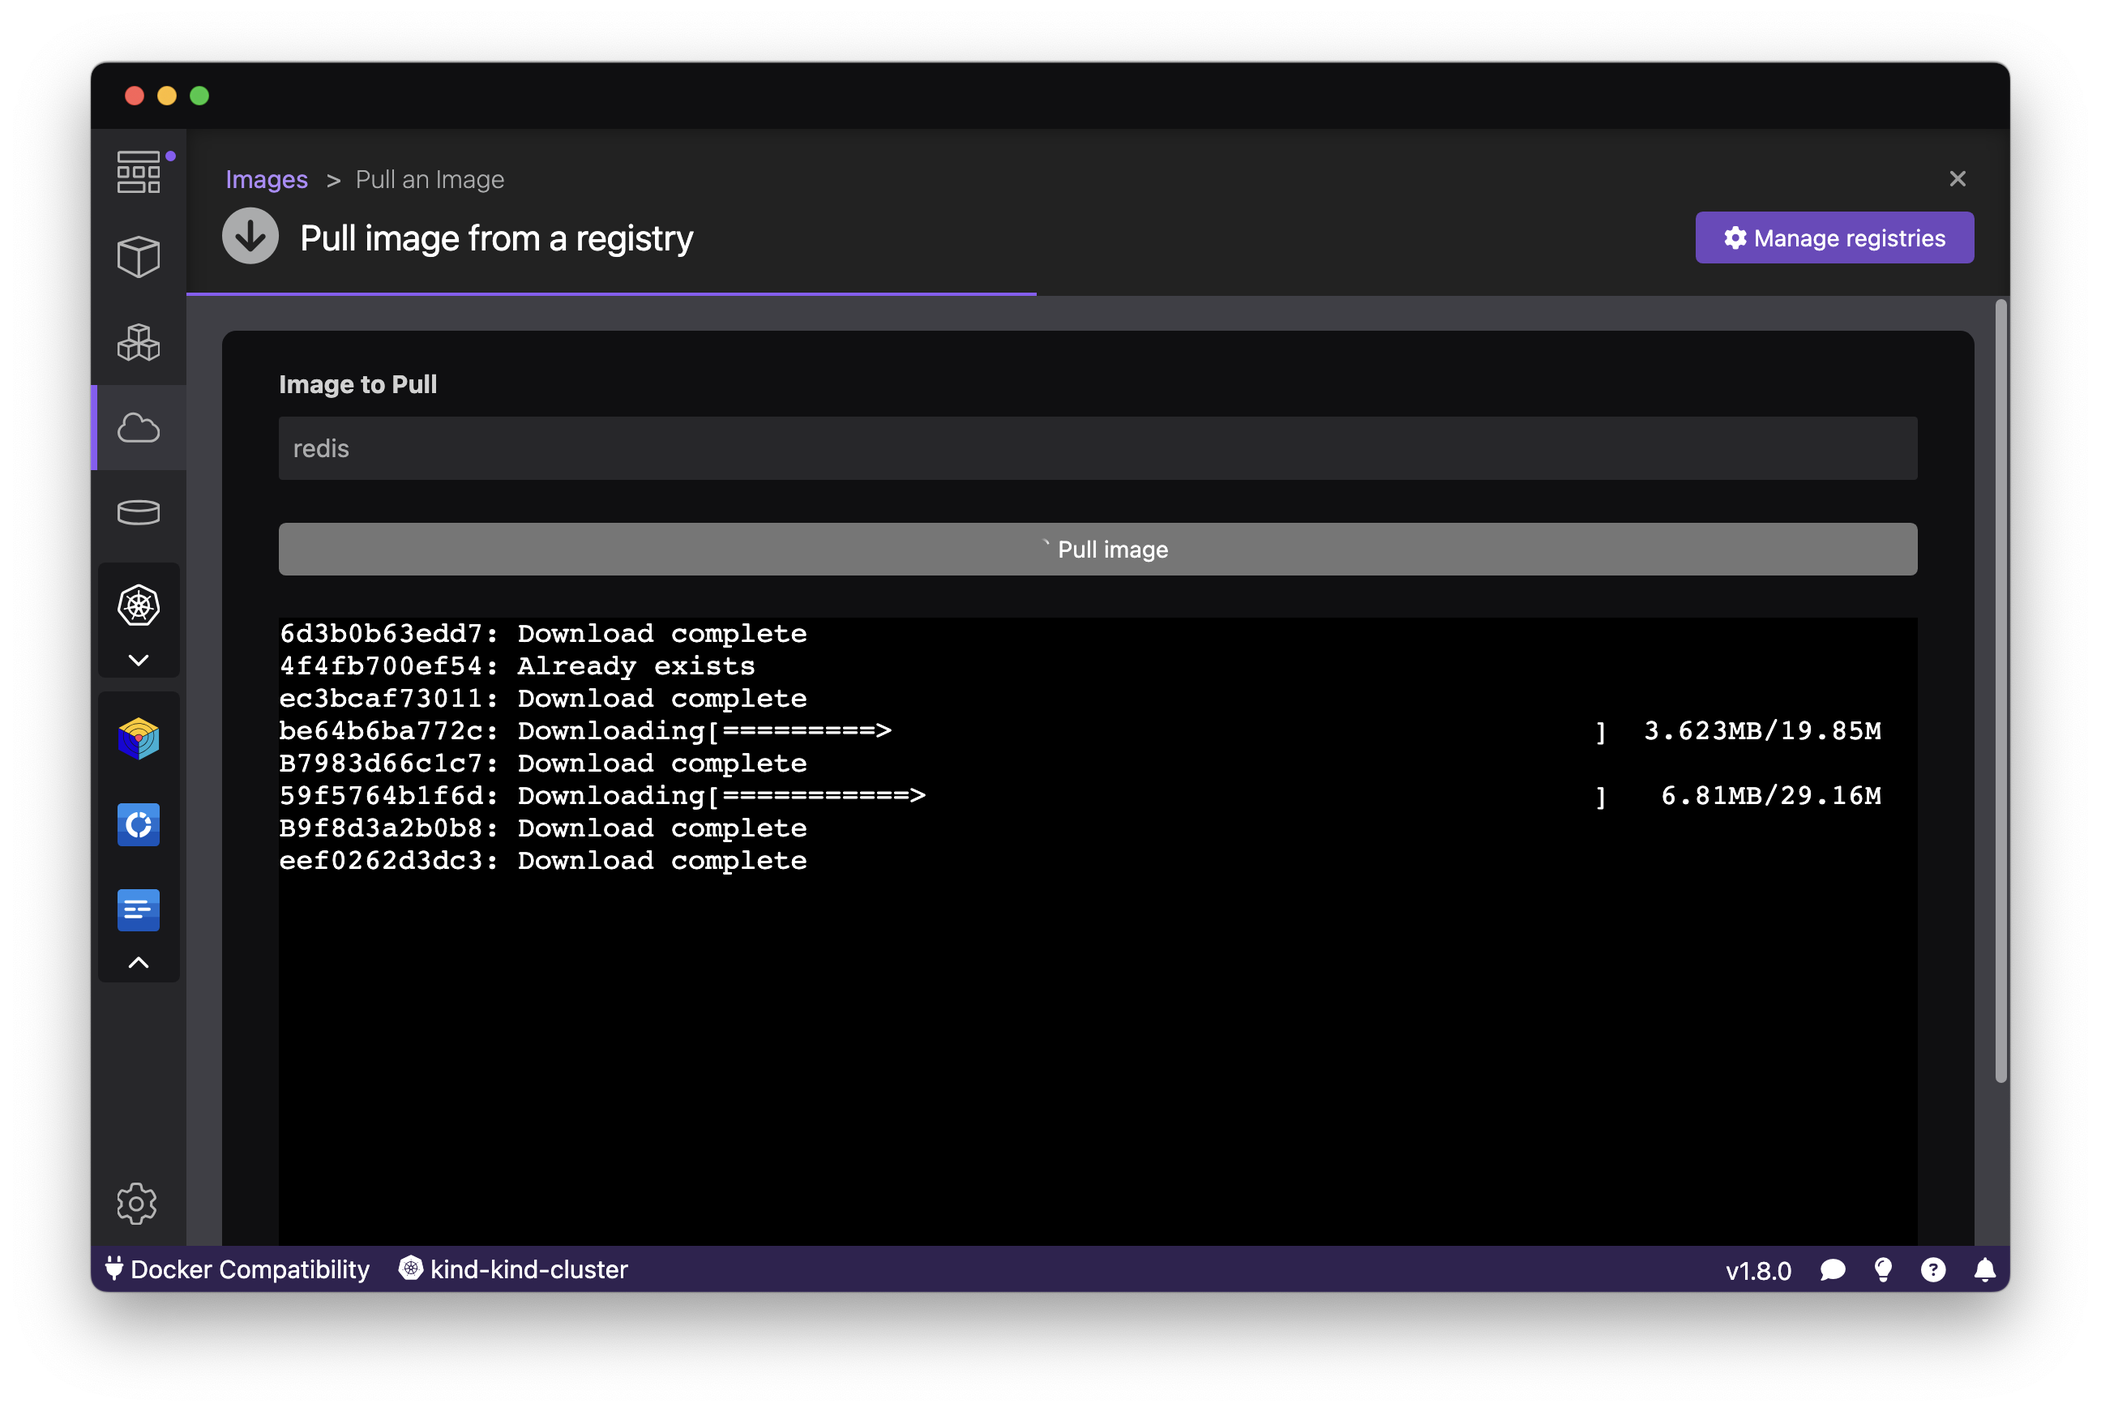
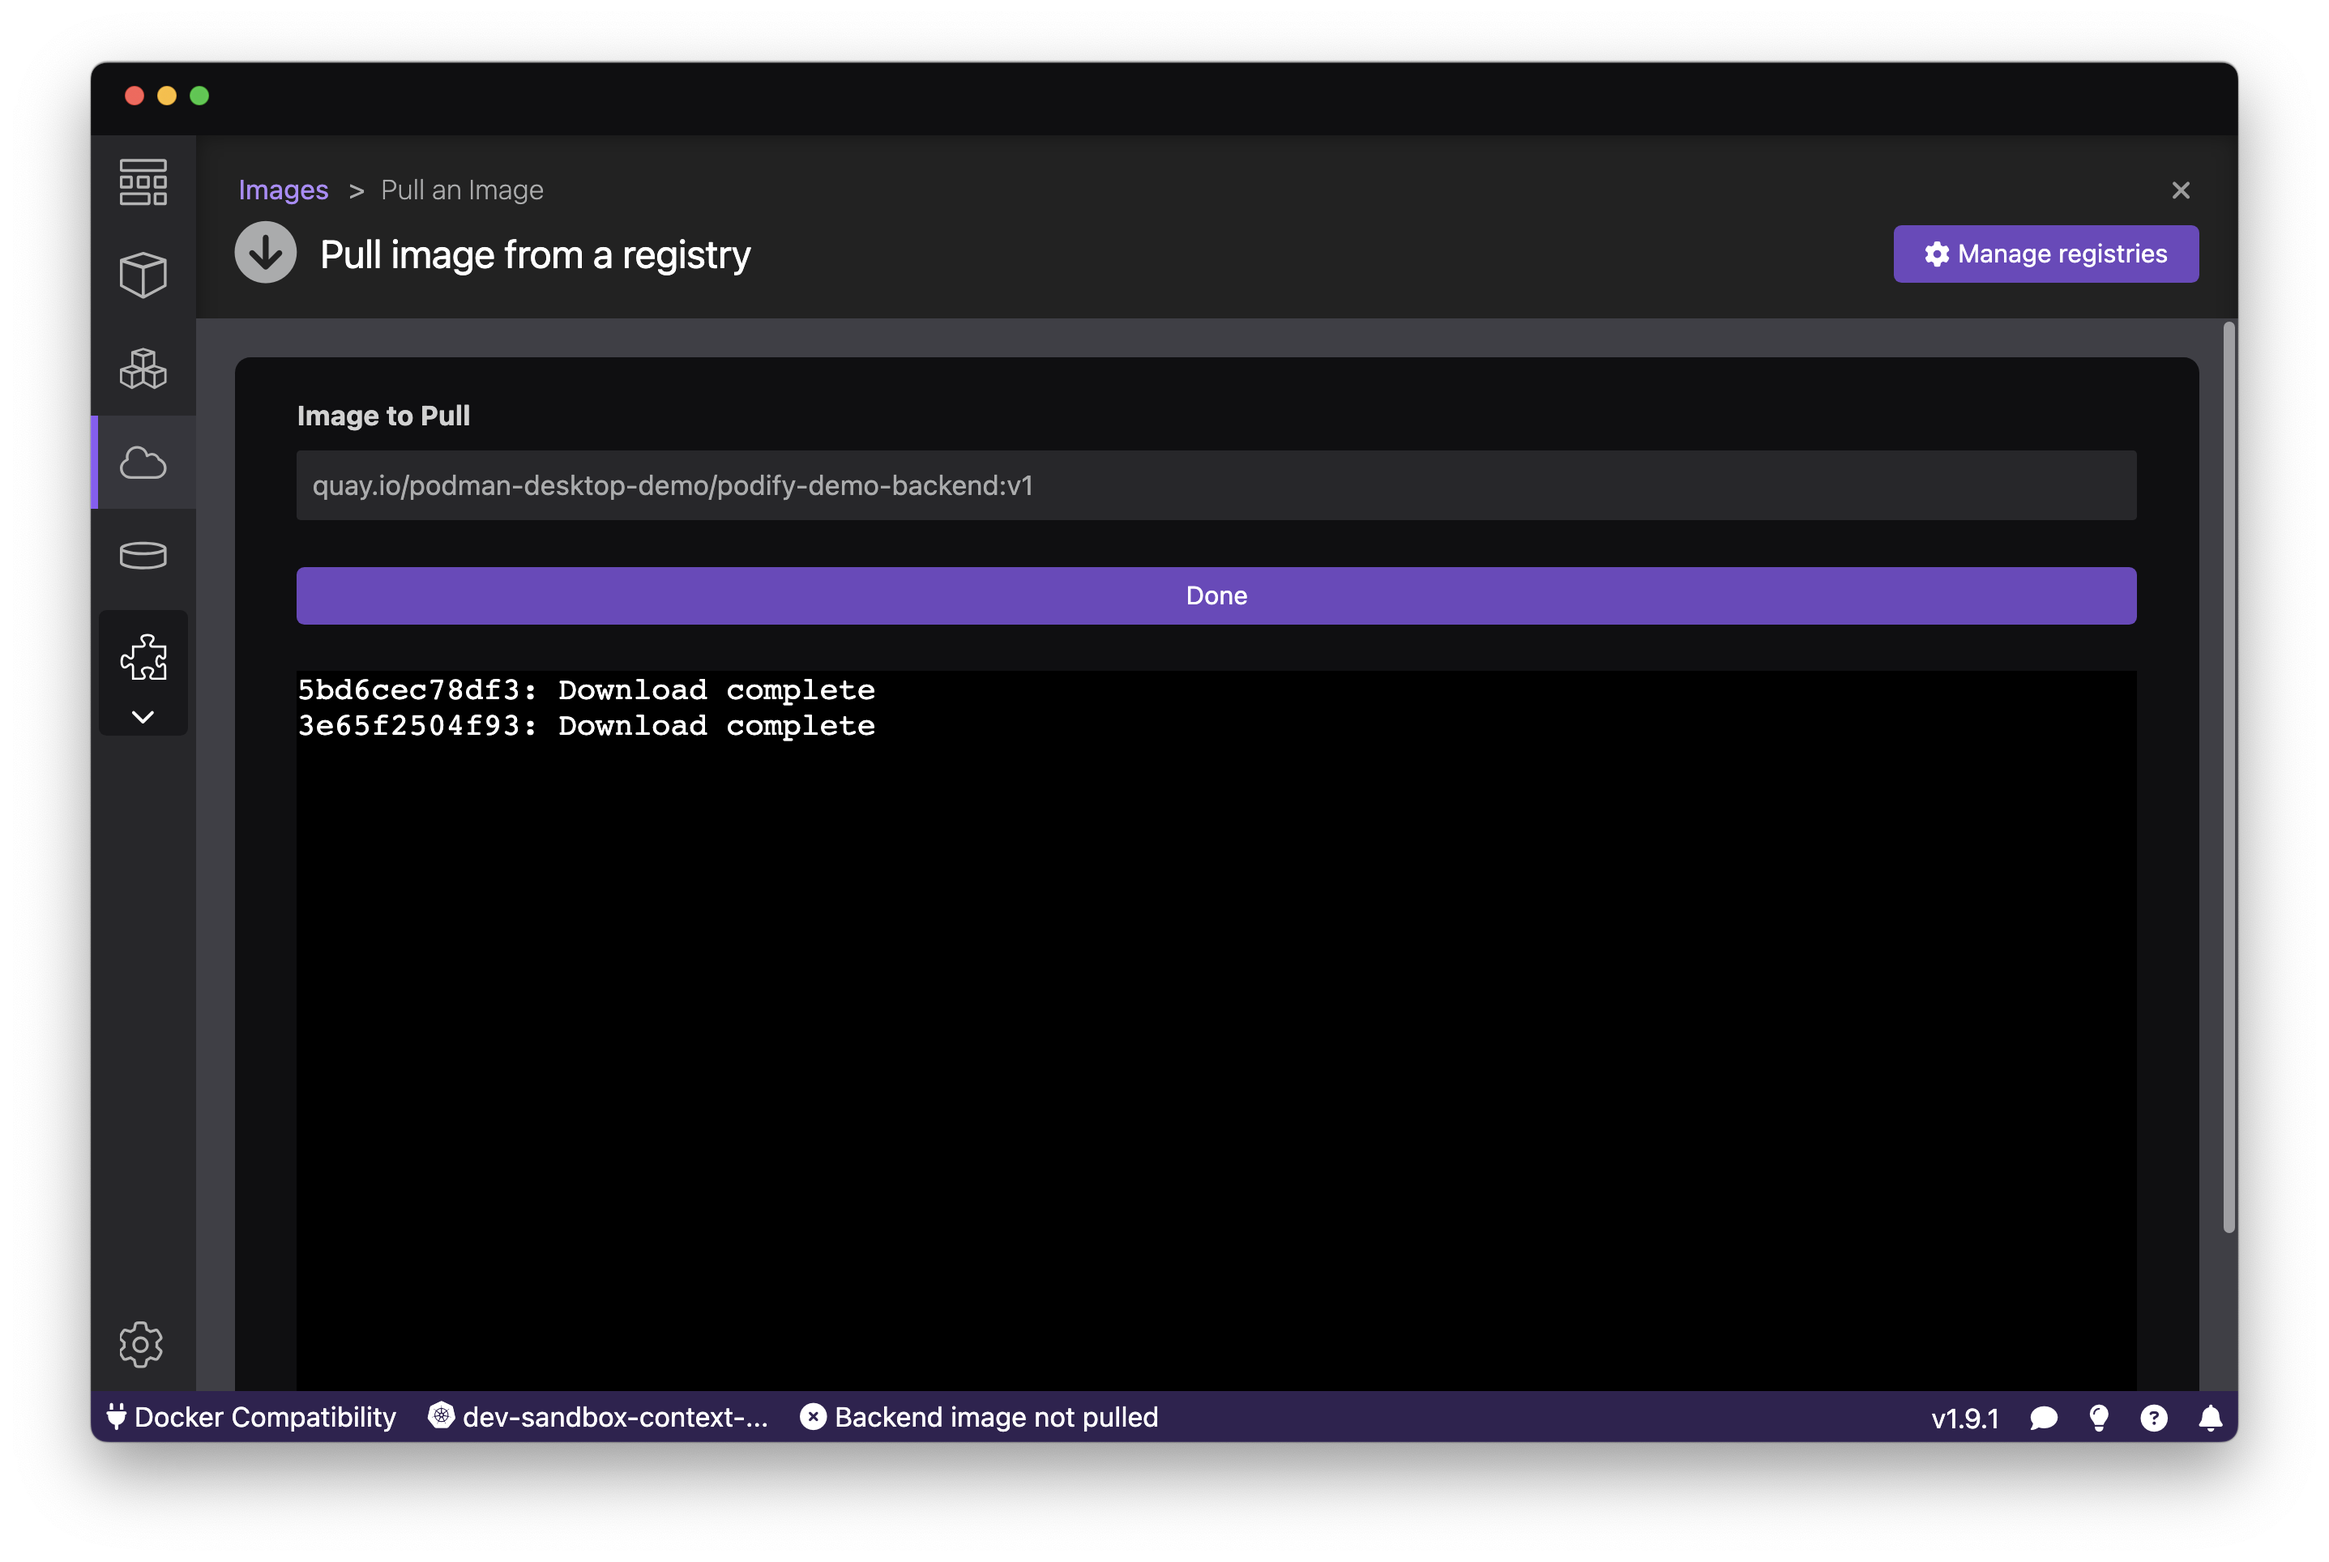
[CI] Publish Documentation for c593079bae893acd6ca9094234e977030b1f6349 - c593079bae893acd6ca9094234e977030b1f6349 🚀

Changed region(s): [[0.0312, 0.031, 0.9688, 0.93], [0.7812, 0.496, 0.9062, 0.527], [0.8125, 0.558, 0.9062, 0.589]]

diff --git a/podman-desktop-tutorial/building-images.html b/podman-desktop-tutorial/building-images.html
@@ -212,11 +212,16 @@ Feel free skip and simply <a href="#pulling.adoc">pull the container images</a> 
 </div>
 </div>
 <div class="paragraph">
-<p>I&#8217;ve cloned the repository to my local machine using <a href="https://desktop.github.com/">GitHub Desktop</a>, but feel free to use the CLI as well:</p>
+<p>I&#8217;ve cloned the repository to my local machine using <a href="https://desktop.github.com/">GitHub Desktop</a>, but today let&#8217;s use the command line to clone the repository. Open up the terminal, and use the noNVC menu to copy these next two commands to your clipboard, and paste/execute them.</p>
 </div>
 <div class="listingblock console-input">
 <div class="content">
 <pre class="highlightjs highlight"><code class="language-bash hljs" data-lang="bash">git clone <a href="https://github.com/redhat-developer/podman-desktop-demo" class="bare">https://github.com/redhat-developer/podman-desktop-demo</a></code></pre>
+</div>
+</div>
+<div class="imageblock">
+<div class="content">
+<img src="_images/podman-desktop-demo-cloned.png" alt="Podman Desktop Demo Cloned" width="600">
 </div>
 </div>
 <div class="paragraph">
@@ -376,11 +381,11 @@ The build context is the directory where the source code and Dockerfile are loca
 <div class="sect2">
 <h3 id="pulling"><a class="anchor" href="#pulling"></a>Optional: Pulling the Python App Image</h3>
 <div class="paragraph">
-<p>If you&#8217;d like to skip the build process from above, you can pull the <code>quay.io/cclyburn/python-app</code> image from a public registry. This is the same image we just built, but it&#8217;s already available for use. Head to the <strong>Images</strong> section, and click the <strong>Pull</strong> button in the top right corner.</p>
+<p>If you&#8217;d like to skip the build process from above, you can pull the <code>quay.io/podman-desktop-demo/podify-demo-frontend:v1</code> image from a public registry. This is the same image we just built, but it&#8217;s already available for use. Head to the <strong>Images</strong> section, and click the <strong>Pull</strong> button in the top right corner.</p>
 </div>
 <div class="listingblock console-input">
 <div class="content">
-<pre class="highlightjs highlight"><code class="language-bash hljs" data-lang="bash">quay.io/cclyburn/python-app</code></pre>
+<pre class="highlightjs highlight"><code class="language-bash hljs" data-lang="bash">quay.io/podman-desktop-demo/podify-demo-frontend:v1</code></pre>
 </div>
 </div>
 <div class="imageblock">
@@ -415,11 +420,11 @@ Due to it&#8217;s popularity, Podman uses the Docker Hub registry to pull images
 </div>
 </div>
 <div class="paragraph">
-<p>Let&#8217;s go ahead and pull the Redis image from Docker Hub by clicking the <strong>Pull</strong> button from the top right corner menu. We&#8217;ll be pulling the official <code>redis</code> image, which is a popular choice for caching in containerized applications.</p>
+<p>Let&#8217;s go ahead and pull a pre-build Redis image from Quay.io by clicking the <strong>Pull</strong> button from the top right corner menu. We&#8217;ll be pulling an image of redis that has been build with the Red Hat UBI, with redis installed on top, which is a popular choice for caching in containerized applications.</p>
 </div>
 <div class="listingblock console-input][ console-input">
 <div class="content">
-<pre class="highlightjs highlight"><code class="language-bash hljs" data-lang="bash">redis</code></pre>
+<pre class="highlightjs highlight"><code class="language-bash hljs" data-lang="bash">quay.io/podman-desktop-demo/podify-demo-backend:v1</code></pre>
 </div>
 </div>
 <div class="imageblock">

diff --git a/podman-desktop-tutorial/podman-basics.html b/podman-desktop-tutorial/podman-basics.html
@@ -286,7 +286,7 @@ Because of the workshop environment, not all of these entensions may be availabl
 <h2 id="_kubernetes"><a class="anchor" href="#_kubernetes"></a>Kubernetes</h2>
 <div class="sectionbody">
 <div class="paragraph">
-<p>Fairly new to Podman Desktop is the Kubernetes section, which provides a more advanced UI for working with Kubernetes clusters.</p>
+<p>Fairly new to Podman Desktop is the Kubernetes section, which provides a more advanced UI for working with Kubernetes clusters. We won&#8217;t be taking a look at it in this workshop, but there are several other sessions and lightning talks about it at Summit!</p>
 </div>
 <div class="admonitionblock tip">
 <table>
@@ -295,7 +295,7 @@ Because of the workshop environment, not all of these entensions may be availabl
 <i class="fa icon-tip" title="Tip"></i>
 </td>
 <td class="content">
-You may need to enable the experimental Kubernetes UI  in <strong>Settings &gt; Kubernetes</strong>.
+On Linux, there isn&#8217;t yet support for this feature, but soon! On older versions of Podman Desktop, you may need to enable the experimental Kubernetes UI  in <strong>Settings &gt; Kubernetes</strong>.
 </td>
 </tr>
 </table>
